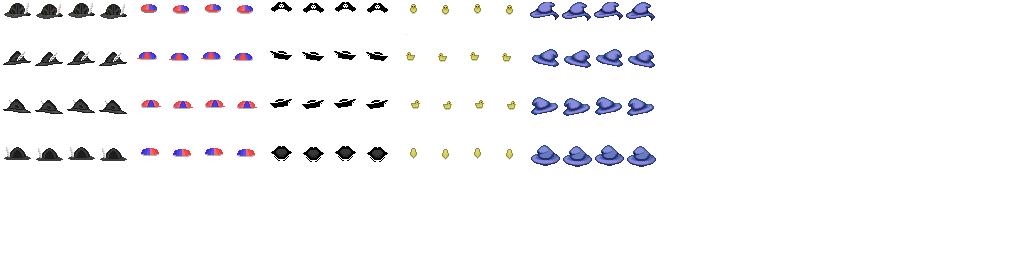
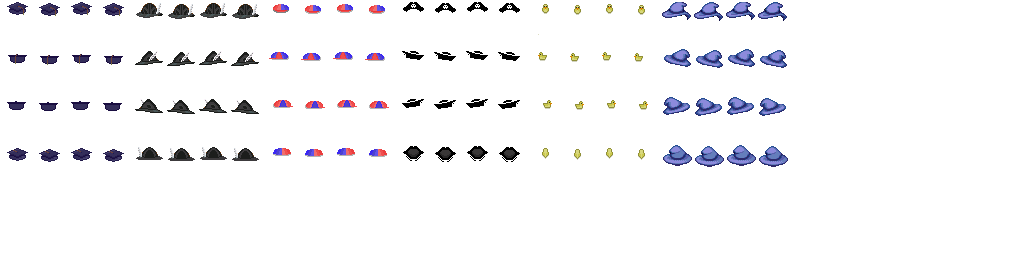
Added Grad Cap
Added the graduation cap item and the nerd sprite and the cap was implemented into the appropriate enum.

diff --git a/FreshmanRPG/GameShared/src/test/java/edu/ship/engr/shipsim/datatypes/VanityItemsForTest.java b/FreshmanRPG/GameShared/src/test/java/edu/ship/engr/shipsim/datatypes/VanityItemsForTest.java
@@ -22,6 +22,8 @@ public enum VanityItemsForTest
 
     BIG_RED_HAT(0, "Big Red's Hat", "Big Red's Hat", "hat_br", 5),
 
+    GRAD_CAP_HAT(0, "Graduation Cap", "A Hat for smart people", "Grad_Cap", 5),
+
     /**
      * Represents a HAIR vanity object.
      */
